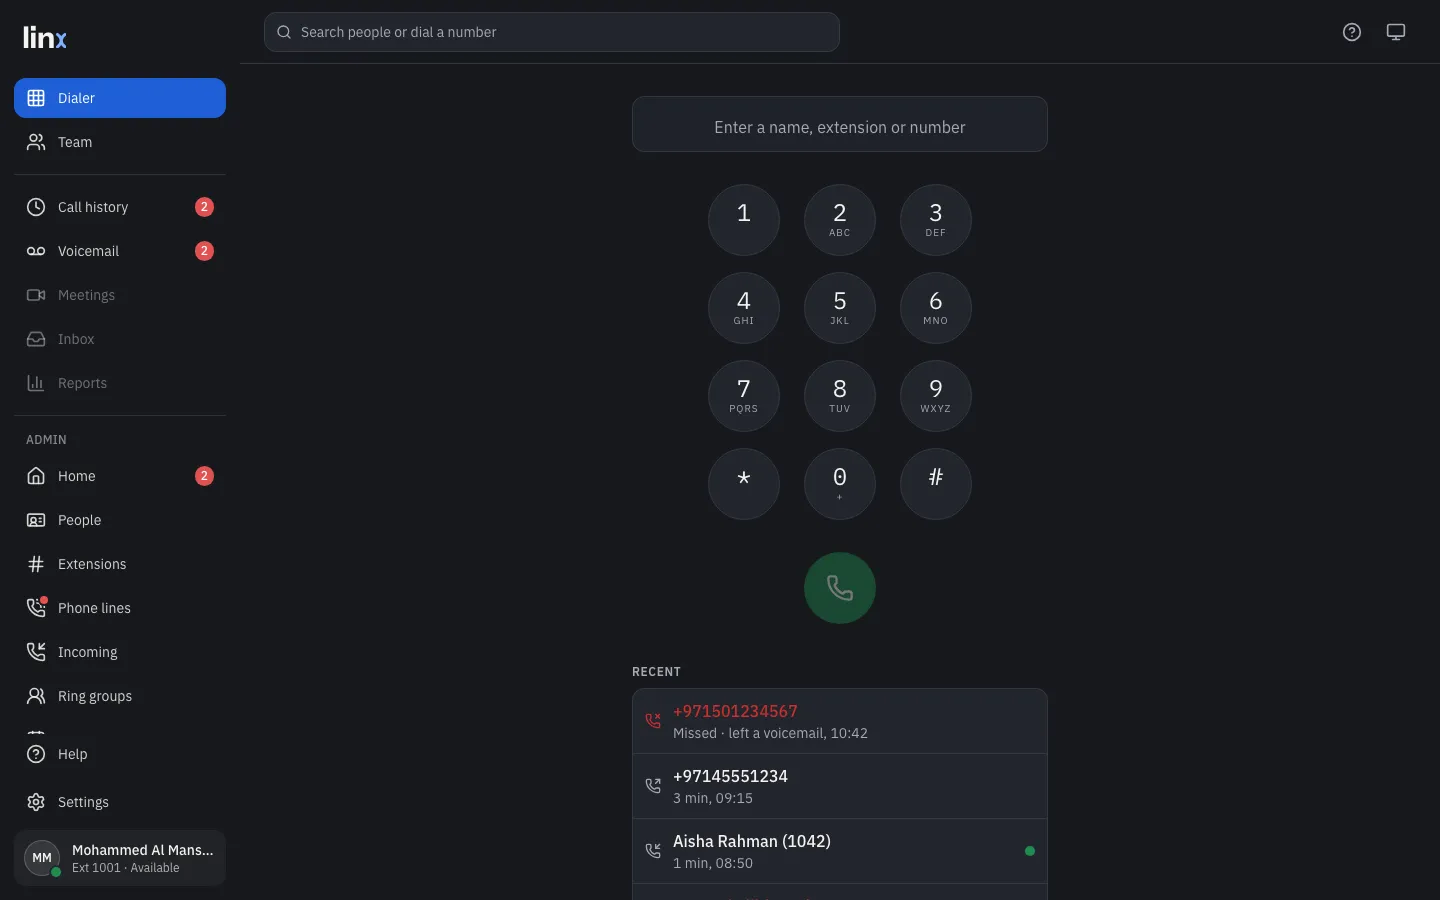
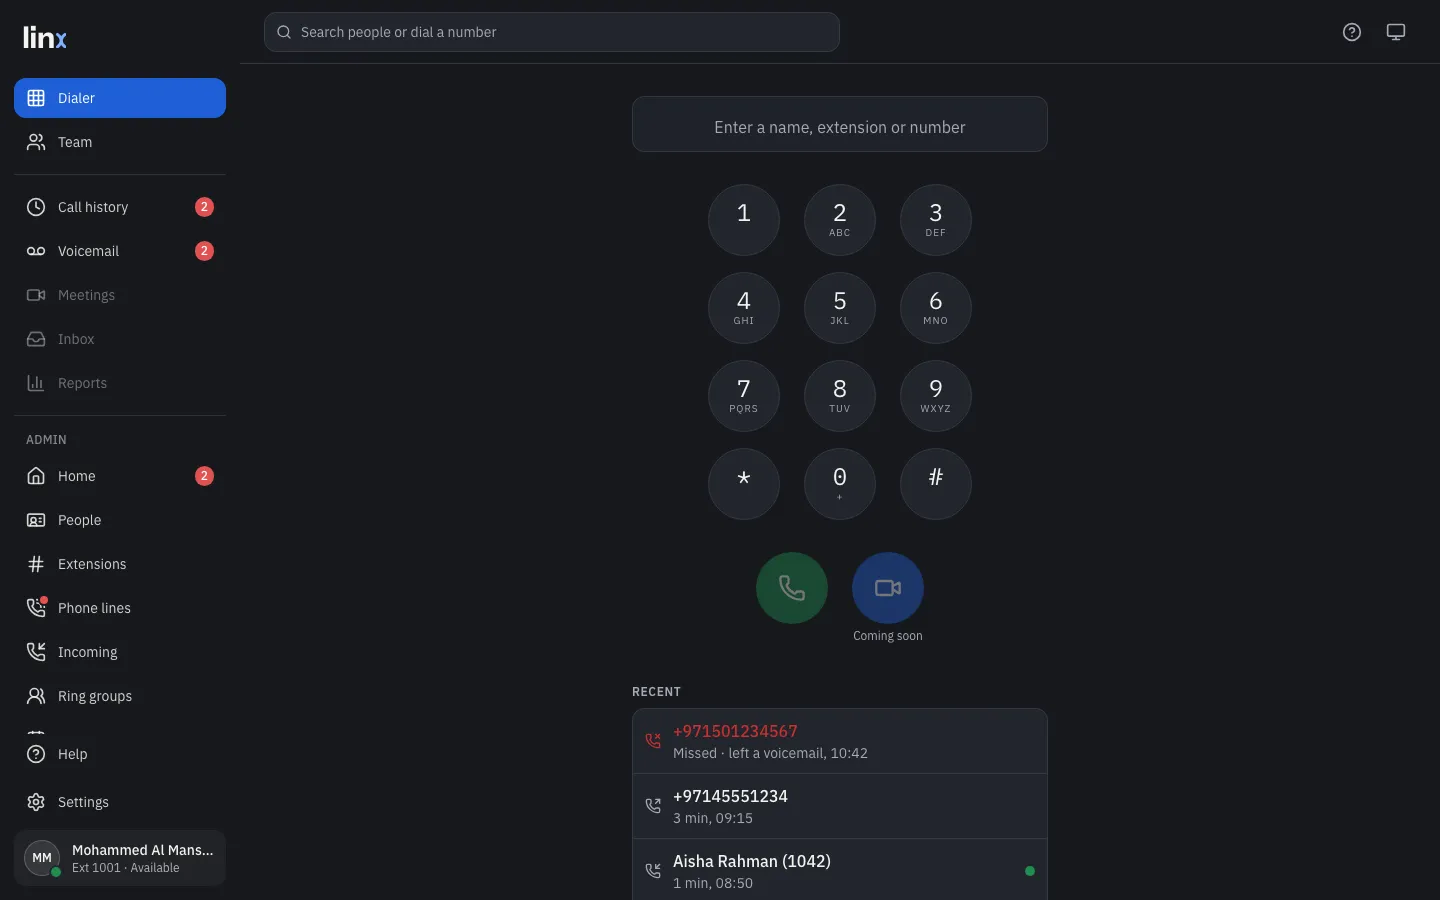
Browser: a Cobalt Video call button beside the green Call, coming soon
Claude-Session: https://claude.ai/code/session_01EoSCBWDKWy6VASLQMKqTyy

Changed region(s): [[0.4375, 0.7156, 0.5938, 0.9956], [0.5, 0.5911, 0.6562, 0.7156]]

diff --git a/web/src/screens/Dialer.tsx b/web/src/screens/Dialer.tsx
@@ -1,6 +1,6 @@
 // The Dialer (WEB_SCREENS_PHASE1C.md §3).
 import { useEffect, useState, type FormEvent } from "react";
-import { Delete, Phone, PhoneIncoming, PhoneMissed, PhoneOutgoing } from "lucide-react";
+import { Delete, Phone, PhoneIncoming, PhoneMissed, PhoneOutgoing, Video } from "lucide-react";
 import { api, type TeamMember } from "@/api/client";
 import { Keypad } from "@/components/Keypad";
 import { Avatar, StatusDot, statusLabel } from "@/components/presence";
@@ -85,10 +85,22 @@ export function DialerScreen({ members, stamp }: { members: TeamMember[] | null;
       <div className="mt-8">
         <Keypad onKey={(k) => setValue((v) => v + k)} />
       </div>
-      <button type="button" onClick={() => dial()} disabled={!canCall || !value.trim()} aria-label="Call"
-        className="mt-8 inline-flex size-18 items-center justify-center rounded-full bg-call text-call-foreground shadow-md transition-colors hover:bg-call/90 outline-none focus-visible:ring-[3px] focus-visible:ring-ring/50 disabled:opacity-40">
-        <Phone className="size-7" />
-      </button>
+      {/* Call in green, Video call in Cobalt (owner, 2026-10-12). Video from
+          the browser is coming; the iPhone and iPad app makes video calls now. */}
+      <div className="mt-8 flex items-start gap-6">
+        <button type="button" onClick={() => dial()} disabled={!canCall || !value.trim()} aria-label="Call"
+          className="inline-flex size-18 items-center justify-center rounded-full bg-call text-call-foreground shadow-md transition-colors hover:bg-call/90 outline-none focus-visible:ring-[3px] focus-visible:ring-ring/50 disabled:opacity-40">
+          <Phone className="size-7" />
+        </button>
+        <div className="flex flex-col items-center gap-1">
+          <button type="button" disabled aria-label="Video call (coming soon)"
+            title="Video calls from the browser are coming soon. The iPhone and iPad app can make them now."
+            className="inline-flex size-18 items-center justify-center rounded-full bg-primary text-primary-foreground shadow-md disabled:opacity-40">
+            <Video className="size-7" />
+          </button>
+          <span className="text-xs text-muted-foreground">Coming soon</span>
+        </div>
+      </div>
 
       <section className="mt-10 w-full" aria-labelledby="recent-title">
         <h2 id="recent-title" className="text-xs font-semibold tracking-wider text-muted-foreground uppercase">Recent</h2>

diff --git a/web/src/screens/Team.tsx b/web/src/screens/Team.tsx
@@ -1,6 +1,6 @@
 // The Team list (WEB_SCREENS_PHASE1C.md §6): one flat list by name, with
 // live status.
-import { Phone } from "lucide-react";
+import { Phone, Video } from "lucide-react";
 import type { TeamMember } from "@/api/client";
 import { Avatar, statusLabel, useElapsed } from "@/components/presence";
 import { usePhoneLine, usePhoneState } from "@/phone/context";
@@ -81,11 +81,20 @@ export function TeamScreen({ members, query }: { members: TeamMember[] | null; q
                   <td className="hidden px-2 py-2.5 text-muted-foreground sm:table-cell"><StatusText m={m} /></td>
                   <td className="py-2.5 pe-3 text-end">
                     {!self && (
-                      <button type="button" aria-label={`Call ${m.name}`} disabled={!canCall}
-                        onClick={() => line.call(m.extension, m.name)}
-                        className="inline-flex size-9 items-center justify-center rounded-full text-call hover:bg-call/10 outline-none focus-visible:ring-[3px] focus-visible:ring-ring/50 disabled:opacity-40">
-                        <Phone className="size-5" />
-                      </button>
+                      <div className="inline-flex items-center gap-1">
+                        <button type="button" aria-label={`Call ${m.name}`} disabled={!canCall}
+                          onClick={() => line.call(m.extension, m.name)}
+                          className="inline-flex size-9 items-center justify-center rounded-full text-call hover:bg-call/10 outline-none focus-visible:ring-[3px] focus-visible:ring-ring/50 disabled:opacity-40">
+                          <Phone className="size-5" />
+                        </button>
+                        {/* Video calls from the browser are coming (owner, 2026-10-12);
+                            the iPhone and iPad app makes them today. */}
+                        <button type="button" aria-label={`Video call ${m.name} (coming soon)`} disabled
+                          title="Video calls from the browser are coming soon. The iPhone and iPad app can make them now."
+                          className="inline-flex size-9 items-center justify-center rounded-full text-primary disabled:opacity-40">
+                          <Video className="size-5" />
+                        </button>
+                      </div>
                     )}
                   </td>
                 </tr>

diff --git a/web/e2e/calls.spec.ts b/web/e2e/calls.spec.ts
@@ -152,7 +152,7 @@ test("browsers call each other, one with UDP blocked", async () => {
   await expect(aisha.getByTestId("team-102")).toHaveAttribute("data-status", "available");
 
   // Aisha calls Omar; he answers.
-  await aisha.getByRole("button", { name: "Call Omar Khalil" }).click();
+  await aisha.getByRole("button", { name: "Call Omar Khalil", exact: true }).click();
   await expect(omar.getByTestId("incoming-call")).toBeVisible();
   await expect(omar.getByTestId("incoming-call")).toContainText("Aisha Rahman");
   await expect(aisha.getByTestId("team-102")).toHaveAttribute("data-status", "ringing");

diff --git a/web/e2e/screens.spec.ts b/web/e2e/screens.spec.ts
@@ -1400,7 +1400,7 @@ test.describe("phone width", () => {
     await lineReady(page);
     await expect(page.getByTestId("team-1042")).toBeVisible();
     await shot(page, "phone-team");
-    await page.getByRole("button", { name: "Call Aisha Rahman" }).click();
+    await page.getByRole("button", { name: "Call Aisha Rahman", exact: true }).click();
     await sip.answer();
     await expect(page.getByTestId("call-panel")).toHaveAttribute("data-phase", "active");
     await shot(page, "phone-active-call");

diff --git a/docs/help/calls-in-the-browser.md b/docs/help/calls-in-the-browser.md
@@ -13,7 +13,7 @@ Linx is a phone in your browser. Keep the page open to get calls.
 
 ## Making a call
 
-In the **Dialer**, type a name, extension or number, then press the call button. Or search at the top of any page (**Search people or dial a number**), or press **Call** next to someone in [Team](team-and-presence).
+In the **Dialer**, type a name, extension or number, then press the green call button. The blue video button beside it is marked *Coming soon*: video calls from the browser are on the way, and the iPhone and iPad app makes them today. Someone who video-calls you while you're in the browser rings as an ordinary call. Or search at the top of any page (**Search people or dial a number**), or press **Call** next to someone in [Team](team-and-presence).
 
 The first time, your browser asks to use the microphone. Allow it.
 
